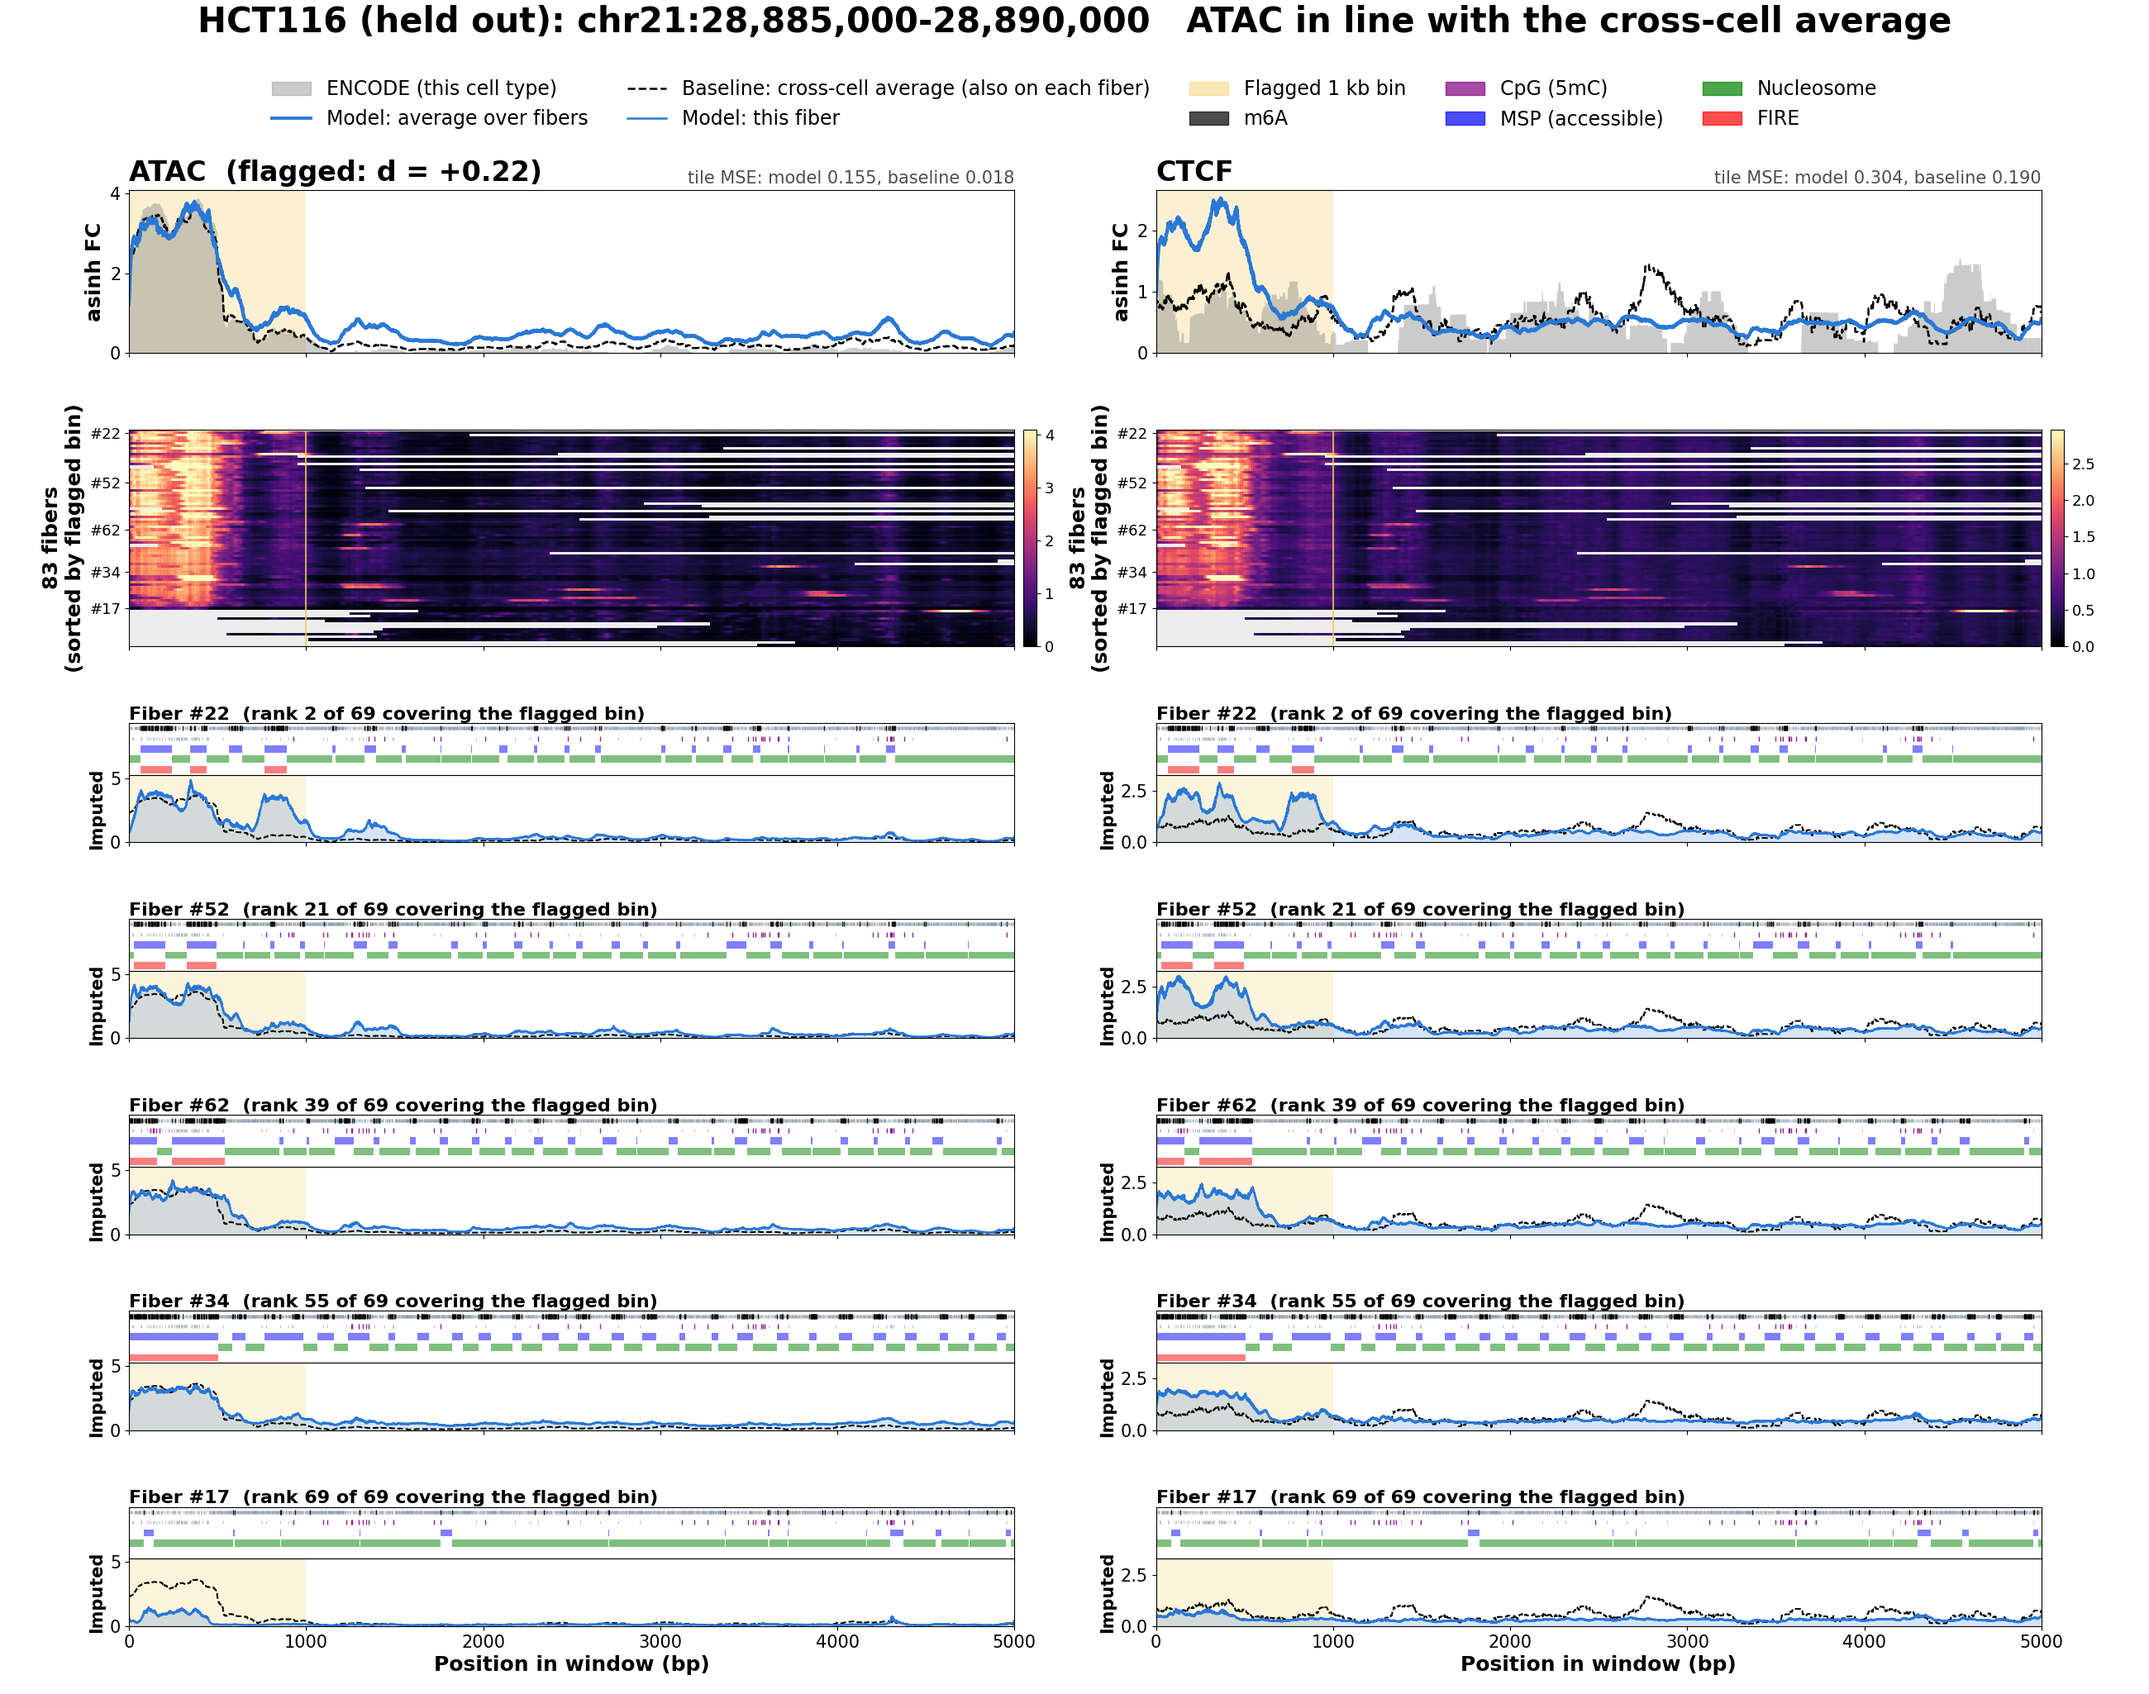
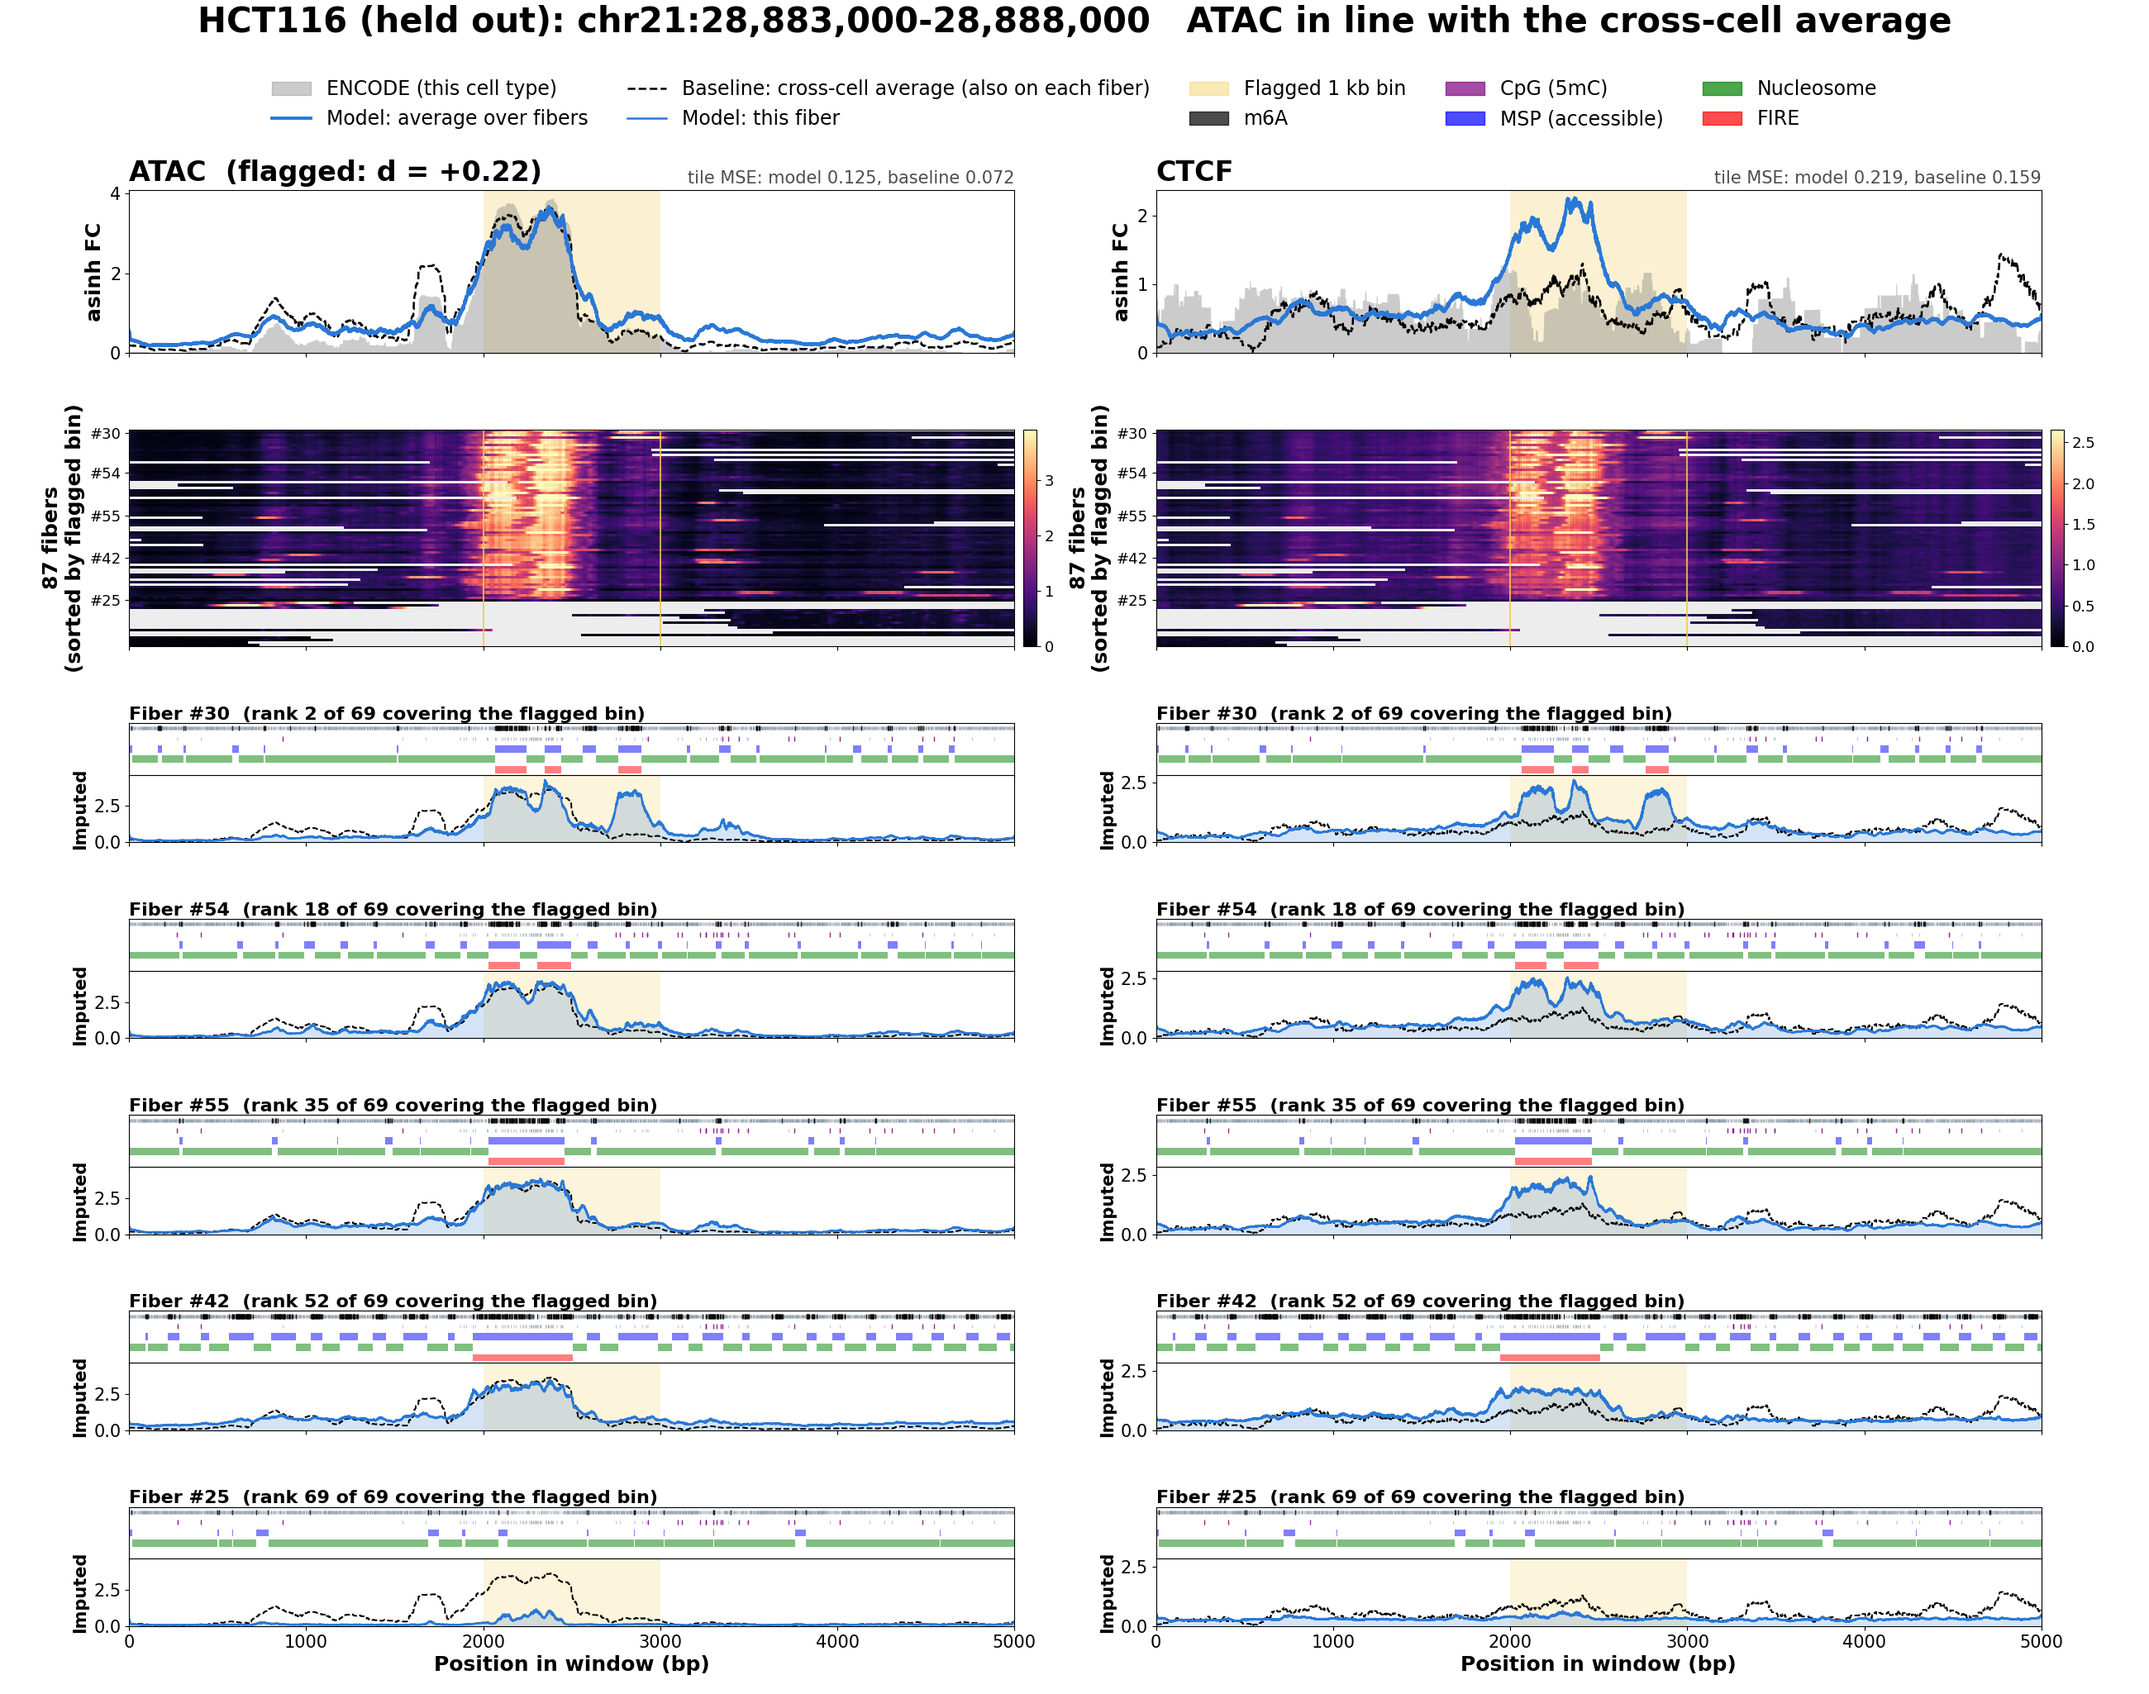
more updates

diff --git a/plots_code/26_oct_30/single_molecule_dev5.py b/plots_code/26_oct_30/single_molecule_dev5.py
@@ -2,10 +2,11 @@
 One-off script for the Oct 30 presentation: single-molecule figures of the DEV5 long model (100 epochs, the model
 behind the bulk-recovery numbers), on chr21 test tiles, for the 5 dev and the 3 held-out cell types.
 
-Every figure shows one tile and a pair of assays (the flagged assay and its partner, PARTNER), with the ENCODE
-track, the model's average over fibers and the cross-cell-average baseline on top, a heatmap of every fiber's
-prediction, and NUM_FIBERS example fibers (input channels + prediction, with the baseline as a reference line: what
-a bulk baseline would give every fiber).
+Every figure shows one window centred on the flagged bin and a pair of assays (the flagged assay and its partner,
+PARTNER), with the ENCODE track, the model's average over fibers and the cross-cell-average baseline on top, a
+heatmap of every fiber's prediction, and NUM_FIBERS example fibers (input channels + prediction, with the baseline as
+a reference line: what a bulk baseline would give every fiber), preferring fibers that span the flagged bin on both
+sides.
 
 Three passes in one job:
   0. Screen (ENCODE tracks only, no fibers, no model): per cell type, tile and assay, cut the tile into BIN bp bins;
@@ -67,7 +68,7 @@ PLOT_RANDOM = {"gain": 2, "loss": 1, "agree": 2}
 MIN_FIBERS = 20                                      # tiles with fewer fibers are ranked but not plotted
 MIN_COVERAGE = 5                                     # scored positions (as in the eval)
 NUM_FIBERS = 5                                       # example fibers per figure
-MIN_SPAN = 0.6                                       # fraction of the window an example fiber should cover
+RANK_WEIGHT = 3.0   # example fibers: cost of moving across the whole ranking, traded against centring the bin (0-1)
 NUM_WORKERS = 4
 SEED = 919
 RUN_NAME = "single_molecule_dev5"
@@ -301,19 +302,33 @@ def _render_single_fiber_features(ax, fiber_inp):
 
 def choose_fibers(out, k, b):
     """Fibers sorted by their prediction in the flagged bin (covering fibers first, the rest by their own mean),
-    and NUM_FIBERS examples spread over that ranking (top to bottom), preferring fibers spanning >= MIN_SPAN."""
-    L = out["mask"].shape[0]
-    present = np.where(out["mask"].sum(0) > 0)[0]
+    and NUM_FIBERS examples spread over that ranking (top to bottom). Each example is the fiber near its target rank
+    that best centres the flagged bin, i.e. covers the window on both sides of it (a soft preference, traded off
+    against moving away from the target rank by RANK_WEIGHT)."""
+    mask = out["mask"]
+    L = mask.shape[0]
+    present = np.where(mask.sum(0) > 0)[0]
     fm = fiber_bin_means(out, k, b)
-    own = (out["per_fiber"][k] * out["mask"]).sum(0) / np.maximum(out["mask"].sum(0), 1)
+    own = (out["per_fiber"][k] * mask).sum(0) / np.maximum(mask.sum(0), 1)
     covering = sorted([f for f in present if not np.isnan(fm[f])], key=lambda f: -fm[f])
     order = covering + sorted([f for f in present if np.isnan(fm[f])], key=lambda f: -own[f])
-    span = out["mask"].sum(0) / L
-    pool = [f for f in covering if span[f] >= MIN_SPAN]
-    if len(pool) < NUM_FIBERS:
-        pool = covering
-    idx = np.unique(np.linspace(0, len(pool) - 1, min(NUM_FIBERS, len(pool))).round().astype(int))
-    return order, [pool[i] for i in idx], len(covering)
+    b0, b1 = b * BIN, (b + 1) * BIN
+    centred = np.minimum(mask[:b0].sum(0) / max(b0, 1), mask[b1:].sum(0) / max(L - b1, 1))   # 1: spans both sides
+    n = len(covering)
+    picks = []
+    for t in np.linspace(0, n - 1, min(NUM_FIBERS, n)):
+        free = [i for i in range(n) if covering[i] not in picks]
+        i = max(free, key=lambda i: centred[covering[i]] - RANK_WEIGHT * abs(i - t) / max(n - 1, 1))
+        picks.append(covering[i])
+    return order, sorted(picks, key=covering.index), n
+
+
+def centre_on_bin(cand, context):
+    """The candidate moved to a window centred on its flagged bin (bin index context // BIN // 2; exact when the
+    window holds an odd number of bins). The ranking scores the candidate on its tile; the figure uses this window."""
+    chrom, start, end = cand["region"]
+    b_start = (start + end) // 2 - context // 2 + cand["bin"] * BIN
+    return dict(cand, region=(chrom, b_start, b_start + BIN), bin=context // BIN // 2)
 
 
 def plot_locus(out, row, output_assays, split):
@@ -474,12 +489,13 @@ def main():
             for sel, picked in (("best", best), ("random", rng.sample(rest, min(PLOT_RANDOM[key[1]], len(rest))))):
                 for j, r in enumerate(picked):
                     r["selected"] = sel
-                    jobs.setdefault(r["region"], []).append((r, sel, j))
+                    c = centre_on_bin(r, cfg["context_length"])
+                    jobs.setdefault(c["region"], []).append((r, c, sel, j))
 
-        print(f"[plot] {cell}: {sum(len(v) for v in jobs.values())} figures on {len(jobs)} tiles", flush=True)
+        print(f"[plot] {cell}: {sum(len(v) for v in jobs.values())} figures on {len(jobs)} windows", flush=True)
         for out in run_model(model, cell, list(jobs), mp, baseline_meta, cfg, device):
-            for r, sel, j in jobs[out["region"]]:
-                fig = plot_locus(out, r, output_assays, split)
+            for r, c, sel, j in jobs[out["region"]]:
+                fig = plot_locus(out, score_candidate(c, out, output_assays), output_assays, split)
                 if fig is None:
                     print(f"  {out['window']} {r['flagged']}: no fiber covers the flagged bin; skipped", flush=True)
                     continue
@@ -511,8 +527,9 @@ def replot(model, output_assays, mp, baseline_meta, cfg, device, out_dir):
                 region = (r["chrom"], int(r["start"]), int(r["end"]))
                 cand = dict(cell=cell, group=r["group"], category=r["category"], flagged=r["flagged"],
                             partner=r["partner"], region=region, bin=int(r["bin"]), d_screen=float(r["d_screen"]))
-                jobs.setdefault(region, []).append((cand, r["selected"], r["figure"]))
-        print(f"\n[plot] {cell}: {sum(len(v) for v in jobs.values())} figures on {len(jobs)} tiles", flush=True)
+                cand = centre_on_bin(cand, cfg["context_length"])
+                jobs.setdefault(cand["region"], []).append((cand, r["selected"], r["figure"]))
+        print(f"\n[plot] {cell}: {sum(len(v) for v in jobs.values())} figures on {len(jobs)} windows", flush=True)
         for out in run_model(model, cell, list(jobs), mp, baseline_meta, cfg, device):
             for cand, sel, figure in jobs[out["region"]]:
                 r = score_candidate(cand, out, output_assays)
@@ -521,6 +538,10 @@ def replot(model, output_assays, mp, baseline_meta, cfg, device, out_dir):
                 if fig is None:
                     print(f"  {out['window']} {r['flagged']}: no fiber covers the flagged bin; skipped", flush=True)
                     continue
+                chrom, s, e = out["window"]   # same name as before, with the centred window's coordinates
+                sel_, cat, j = os.path.basename(figure).split("_")[:3]
+                figure = os.path.join(os.path.dirname(figure),
+                                      f"{sel_}_{cat}_{j}_{chrom}_{s}-{e}_{r['flagged']}-{r['partner']}.png")
                 os.makedirs(os.path.join(out_dir, os.path.dirname(figure)), exist_ok=True)
                 fig.savefig(os.path.join(out_dir, figure), dpi=DPI)
                 plt.close(fig)

diff --git a/reports/Oct_30.md b/reports/Oct_30.md
@@ -169,15 +169,17 @@ assay table). H1 and H9 have 3 sharp assays (no ATAC). Model / baseline; **bold*
     - how much of the gap to the average the model recovers;
     - the model's r over the 5 kb tile.
   - Plots: per cell type and group, the best few plus random picks. 224 figures in total, all on fir in
-    `results/26-10-27_T10-57-03_single_molecule_dev5/` (redrawn with tile MSE; ranking from `..._T06-06-09_...`).
+    `results/26-10-28_T21-22-02_single_molecule_dev5/` (latest version; ranking from `..._T06-06-09_...`).
   - Code: `plots_code/26_oct_30/single_molecule_dev5.py`.
 - **Each figure:**
   - Two panels: the flagged assay and its partner (ATAC↔CTCF, H3K4me3↔H3K27ac, H3K4me1↔H3K36me3,
     H3K27me3↔H3K9me3; for H1/H9, which have no ATAC, CTCF is paired with H3K27ac).
   - Top: the ENCODE track, the model's average over fibers, and the baseline, with the tile MSE of each (scored
     positions, ≥ 5 fibers).
+  - The 5 kb window is centred on the flagged bin.
   - Then a heatmap of every fiber's prediction, sorted by the flagged bin.
-  - Then five fibers across that ranking, with their inputs (m6A, MSP, nucleosomes, FIRE). Each fiber's prediction
+  - Then five fibers across that ranking (preferring fibers that cover the window on both sides of the bin), with
+    their inputs (m6A, MSP, nucleosomes, FIRE). Each fiber's prediction
     is drawn against the baseline (dashed): a bulk baseline gives every fiber that same curve, while the model gives
     each fiber its own.
 - **Over all 799 ranked candidates** (not just the plotted ones):
@@ -196,26 +198,26 @@ assay table). H1 and H9 have 3 sharp assays (no ATAC). Model / baseline; **bold*
     sharp marks), but the model is close.
 - **Figures to show** (`figures/oct30/sm_*.png`):
   - `sm_test_mcf7_atac_gain.png`: MCF-7 (held out), ATAC peak absent from the average.
-    - The model finds it (tile MSE 0.13 vs 1.06 for the baseline).
+    - The model finds it (tile MSE 0.14 vs 1.07 for the baseline).
     - The heatmap shows which fibers are open; closed fibers predict ~0.
-  - `sm_test_mcf7_h3k4me1_gain.png`: same locus, H3K4me1. A broad mark that works (MSE 0.39 vs 1.94), with a
+  - `sm_test_mcf7_h3k4me1_gain.png`: same locus, H3K4me1. A broad mark that works (MSE 0.48 vs 2.15), with a
     gradient across fibers.
   - `sm_dev_hepg2_h3k4me3_gain.png`: HepG2 promoter, H3K4me3 and H3K27ac.
-    - The model tracks the track (MSE 0.25 vs 2.22).
-    - The bottom fiber is fully nucleosome-covered and predicts nothing: a silent copy.
+    - The model follows the promoter domain (MSE 0.63 vs 3.44), though below its full height (~2.5 vs ~3.5).
+    - The bottom fiber is almost fully nucleosome-covered and predicts nothing: a silent copy.
   - `sm_test_h9_h3k4me3_gain.png`: H9 (held out, no ATAC).
-    - H3K4me3 is right (MSE 0.16 vs 0.84).
-    - H3K27ac is over-called at the same spot (MSE 0.84 vs 0.16, worse than the baseline): the model ties the two
+    - H3K4me3 is right (MSE 0.28 vs 1.00).
+    - H3K27ac is over-called at the same spot (MSE 0.92 vs 0.08, worse than the baseline): the model ties the two
       promoter marks together.
   - `sm_test_hct116_atac_agree.png`: HCT116 ATAC in line with the average.
-    - Same shape (r 0.98 vs 1.00), but the baseline is closer in level (MSE 0.155 vs 0.018): the model sits
+    - Same shape (r 0.98 vs 0.97), but the baseline is closer in level (MSE 0.125 vs 0.072): the model sits
       slightly high across the whole tile.
-    - CTCF is over-called at the accessible site (MSE 0.30 vs 0.19): CTCF follows accessibility (also visible in
-      the MCF-7 figure, MSE 0.42 vs 0.29).
+    - CTCF is over-called at the accessible site (MSE 0.22 vs 0.16): CTCF follows accessibility (also visible in
+      the MCF-7 figure, MSE 0.43 vs 0.26).
   - `sm_test_hct116_h3k4me1_loss.png`: HCT116 lacks the H3K4me1 domain the average predicts.
-    - The model stays low (MSE 0.26 vs 1.62).
-    - It misses the one real peak at ~2 kb.
-  - `sm_test_hct116_h3k27me3_random_fail.png` (random pick): a failure (MSE 0.88 vs 0.78). The HCT116 H3K27me3
+    - The model stays low (MSE 0.27 vs 1.76).
+    - It misses the one real peak in the window.
+  - `sm_test_hct116_h3k27me3_random_fail.png` (random pick): a failure (MSE 0.80 vs 0.72). The HCT116 H3K27me3
     domain is missed; the prediction is flat and uniform across fibers, the broad-mark weakness from Table 2.
 
 ### Mixture test (T3): are single molecules resolved?
